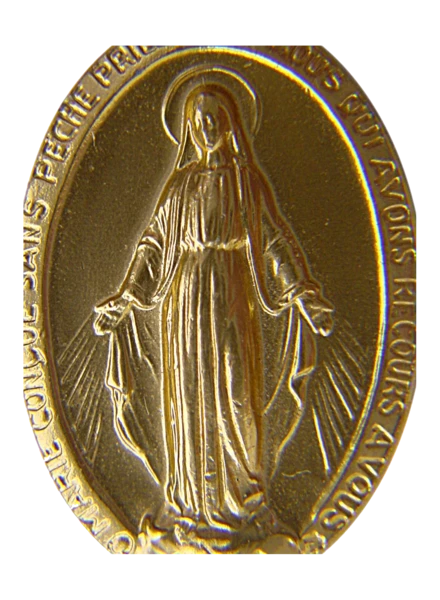
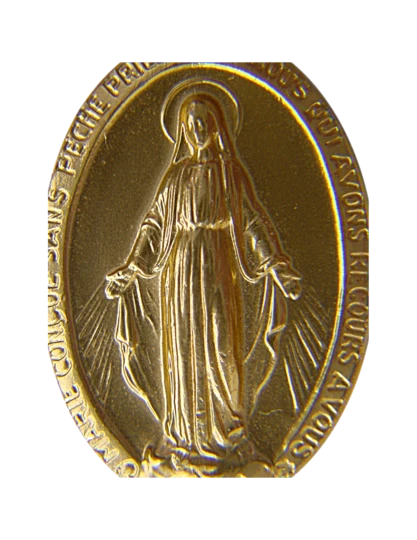
design(grupy): Dzieci Maryi — Medaille mit korrektem Atemraum
Helle goldene Medaille (Wikimedia, original Quelle) mit 30% Extent-
Padding regeneriert. Vorher: zu eng am Rand. Spaeter Versuch mit
65% war zu klein. 30% ist Goldilocks — Medaille deutlich im
Mittelpunkt, kein Clipping, sauberer Atemraum oben+unten.

diff --git a/index.html b/index.html
@@ -778,7 +778,7 @@
       <!-- Grono Dzieci Maryi -->
       <a href="wspolnota-grono-dzieci-maryi.html" class="community-item reveal">
         <div class="community-image community-image--logo" style="background:#f5f1ea;">
-          <img src="images/grupy/grono-dzieci-maryi.webp" alt="Cudowny Medalik – emblemat Grona Dzieci Maryi" loading="lazy" width="440" height="600" onerror="this.style.display='none'; this.nextElementSibling.style.display='flex'">
+          <img src="images/grupy/grono-dzieci-maryi.webp" alt="Cudowny Medalik – emblemat Grona Dzieci Maryi" loading="lazy" width="417" height="540" onerror="this.style.display='none'; this.nextElementSibling.style.display='flex'">
           <div class="community-image-placeholder" style="background: linear-gradient(135deg, #9a8b76, #7a6d5c); display: none;">
             <span class="community-icon">
               <svg viewBox="0 0 24 24" fill="none" stroke="currentColor" stroke-width="1.5"><path d="M12 2l3.09 6.26L22 9.27l-5 4.87 1.18 6.88L12 17.77l-6.18 3.25L7 14.14 2 9.27l6.91-1.01L12 2z"/></svg>

diff --git a/grupy.html b/grupy.html
@@ -211,7 +211,7 @@
 
       <a href="wspolnota-grono-dzieci-maryi.html" class="community-item reveal">
         <div class="community-image community-image--logo" style="background:#f5f1ea;">
-          <img src="images/grupy/grono-dzieci-maryi.webp" alt="Cudowny Medalik – emblemat Grona Dzieci Maryi" loading="lazy" width="440" height="600" onerror="this.style.display='none'; this.nextElementSibling.style.display='flex'">
+          <img src="images/grupy/grono-dzieci-maryi.webp" alt="Cudowny Medalik – emblemat Grona Dzieci Maryi" loading="lazy" width="417" height="540" onerror="this.style.display='none'; this.nextElementSibling.style.display='flex'">
           <div class="community-image-placeholder" style="background: linear-gradient(135deg, #9a8b76, #7a6d5c); display: none;">
             <span class="community-icon">
               <svg viewBox="0 0 24 24" fill="none" stroke="currentColor" stroke-width="1.5"><path d="M12 2l3.09 6.26L22 9.27l-5 4.87 1.18 6.88L12 17.77l-6.18 3.25L7 14.14 2 9.27l6.91-1.01L12 2z"/></svg>
